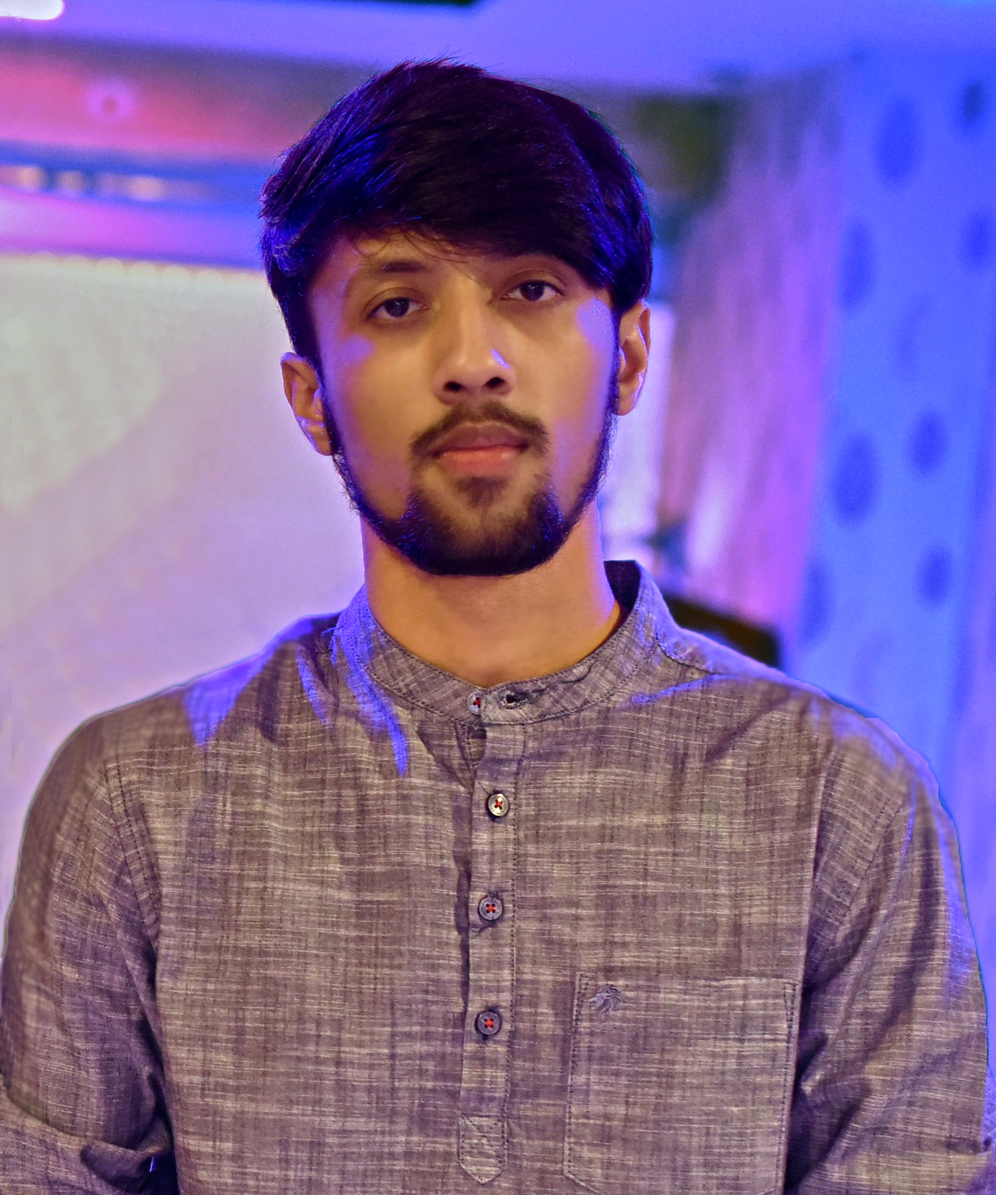
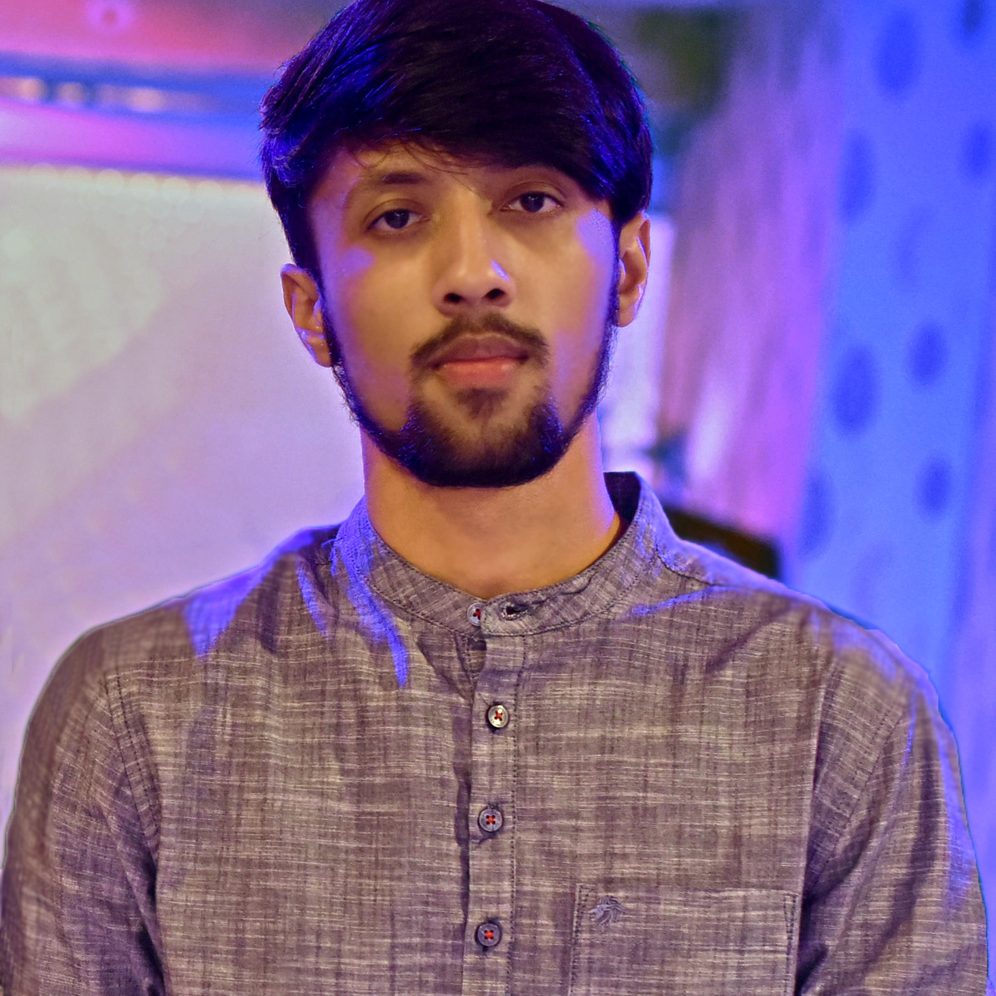
added cover and profile pic with layout

diff --git a/styles.css b/styles.css
@@ -1,33 +1,46 @@
 body{
     background-color:lightskyblue;
+    margin: 0;
+    padding: 0;
 }
 
 
 .header{
     text-align: center;
     font-family: cursive;
-    
+    background-color: blue;
     font-size: 130%;
+    
+    height:auto;
+    width:100%;
+    padding: 0;
+    margin: 0;
+
 }
 
+
+
 .tushar {
+    
+    transform: translateY(-100px) translateX(100px);
     margin-top:20px;
     transition: 0.4s;
-    width: 12%;
-    border: solid white 8px;
-    border-radius: 2000px;
+    width: 150px;
+    border: solid lightskyblue 10px;
     
-    box-shadow: 8px 8px 5px grey;
+    border-radius: 100px;
+    
+    /* box-shadow: 0px 8px 5px ; */
   }
   
   .tushar:hover {
-    transition: 0.8s;
-    transform: translate(-8px, -8px);
-    box-shadow: 14px 14px 8px grey;
+    transition: 0.4s;
+    
+    box-shadow: 0px 8px 8px black;
   }
   
   .tushar:active{
     transition: 0.2s;
-    transform: translate(4px, 4px);
-    box-shadow: 4px 4px 3px grey;
+    box-shadow: 0px 4px 1px black;
+
   }

diff --git a/index.html b/index.html
@@ -10,15 +10,12 @@
 </head>
 
 <body>
-    <div class="header">
 
-        <img class="tushar" src="img.jpeg">
-        <br>
-        <h1>Tushar Bhardwaj</h1>
-        Student
-
-
-    </div>
+    <img class="header" src="cover.jpg">
+    <img class="tushar" src="img.jpeg">
+    <!-- <br>
+    <h1>Tushar Bhardwaj</h1>
+    Student -->
 
     <div class="middle">
 
